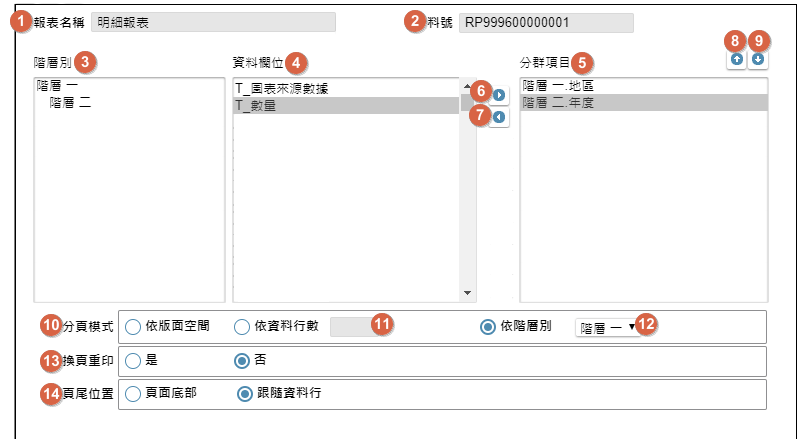
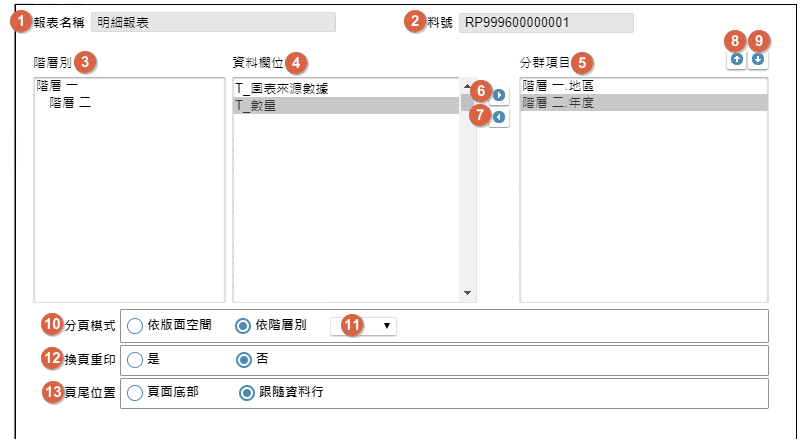
8.10.1 本版異動: ITEM_2:報表規格定義

Changed region(s): [[0.0312, 0.6795, 0.9663, 0.9455]]

diff --git a/8.10.1/UPDATE/ITEM_2/IDE/RAGroup/README.md b/8.10.1/UPDATE/ITEM_2/IDE/RAGroup/README.md
@@ -5,9 +5,13 @@
 * [版面資訊通則][link_ruleother1]
 
 ## <div id="form-action">動作說明</div>
+
+* 依報表規格定義, 結構清單駐留節點: 分頁模式, 顯示本單內容
+* 依報表規格定義, 工具列.編修鍵, 進入本單的編輯模式
 * 參照 [單據異動資料按鍵操作通則][link_rulebutton2]
     * 下列欄位, 除規格說明中有額外說明, 否則所有欄位在瀏覽狀態: 除能 ; 編輯狀態: 致能
-
+* 動作流程
+    * ![pic][image_flow_open]
 
 ## <div id="object-desc">欄位說明</div>
 
@@ -26,7 +30,7 @@
     * `(3)階層別`
         * 用途說明
         * 規格說明
-            * 顯示報表階層清單, 過濾: 駐留筆報表
+            * 顯示報表階層清單, 過濾: 駐留筆報表, 且階層類型存在【lh.階層首、lf.階層尾】
     * `(4)資料欄位`
         * 用途說明
         * 規格說明
@@ -40,56 +44,70 @@
         * 規格說明
             * 在`(3)階層別`指定駐留任一報表階層, 並同時在`(4)資料欄位`指定駐留任一欄位, 且駐留的階層+資料欄位不存在`(5)分群項目`中, 則 致能, 否則 除能
             * 執行按鍵時, 將指定的階層及資料欄位加入至`(5)分群項目`中
+        * 動作流程
+            * ![pic][image_flow_add_group]
     * `(7)清除_分群項目`
         * 用途說明
         * 規格說明
             * 在`(5)分群項目`指定駐留任一記錄, 則 致能, 否則 除能
             * 執行按鍵, 將駐留筆從`(5)分群項目`中清除
+        * 動作流程
+            * ![pic][image_flow_cancel_group]
     * `(8)上移`
         * 用途說明
         * 規格說明
             * 在`(5)分群項目`指定駐留任一記錄, 且`(5)分群項目`記錄筆數>1, 且駐留筆非第一筆時, 則 致能, 否則 除能
-            * 執行按鍵，將駐留筆往上移
+            * 執行按鍵, 將駐留筆往上移, 與上一筆記錄調換排序位置
+        * 動作流程
+            * ![pic][image_flow_move_up]
     * `(9)下移`
         * 用途說明
         * 規格說明
             * 在`(5)分群項目`指定駐留任一記錄, 且`(5)分群項目`記錄筆數>1, 且駐留筆非最後一筆時, 則 致能, 否則 除能
-            * 執行按鍵，將駐留筆往下移
+            * 執行按鍵, 將駐留筆往下移, 與下一筆記錄調換排序位置
+        * 動作流程
+            * ![pic][image_flow_move_down]
     * `(10)分頁模式`
         * 用途說明
             * 報表分頁的基礎
-                * 依版面空間：即版面已滿時才會換頁
-                * 依階層別：挑選依據階層，依上述設定階層群組依據異動而分頁
+                * 依版面空間: 即版面已滿時才會換頁
+                * 依階層別: 挑選依據階層, 依上述設定階層群組依據異動而分頁
         * 規格說明
-            * 單一選項: 依版面空間 / 依資料行數/ 依階層別
+            * 單一選項: 依版面空間/ 依階層別
     * `(11)依階層別`
         * 用途說明
         * 規格說明
-            * 下拉選項: 報表階層名稱, 過濾: 駐留筆報表
+            * 下拉選項: 報表階層清單, 顯示: 階層名稱, 過濾: 駐留筆報表, 且階層類型存在【lh.階層首、lf.階層尾】
     * `(12)換頁重印`
         * 用途說明
-            * 指報表換頁時，頁首內容是否於次頁中顯示
+            * 指報表換頁時, 頁首內容是否於次頁中顯示
         * 規格說明
-    * `(12)頁尾位置`
+            * 單一選項: 是 / 否
+    * `(13)頁尾位置`
         * 用途說明
             * 指定頁尾的資訊出現的位置
-                * 固定版面底部，即將頁尾內容固定置於報表最下方
-                * 跟隨資料列，即將頁尾資料內容，置於頁身或階尾內容的下方顯示
+                * 固定版面底部, 即將頁尾內容固定置於報表最下方
+                * 跟隨資料列, 即將頁尾資料內容, 置於頁身或階尾內容的下方顯示
         * 規格說明
+            * 單一選項: 固定版面底部 / 跟隨資料列
 
 ## <div id="save-action">儲存檢控</div>
 * 以下欄位符合條件時, 顯示訊息盒, 顯示規則參照 [存回不允空白檢控通則][link_ruleother7]
-    * 當`(5)參數名`=空值
-    * 當`(6)型態`=請選擇
-
-	
-* 以下欄位符合條件時, 顯示訊息盒, 顯示規則參照 [存回其它檢控通則][link_ruleother8]
-	* 當`(5)參數名`存在空白字元, 錯誤訊息內容: 參數名:`(5)參數名`, 不允有空白字元
+    * 當`(10)分頁模式`未選取任何選項
+    * 當`(10)分頁模式`=依階層別, 且`(11)依階層別`未選取任何選項
+    * 當`(12)換頁重印`未選取任何選項
+	* 當`(12)頁尾位置`未選取任何選項
 
 
 <!-- 圖片 -->
 [image_report_ragroup]:attachment/ReportAnnotation_RAGroup.png
 [image_report_ragroup_block1]:attachment/ReportAnnotation_RAGroup_block1.png
+
+[image_flow_open]:attachment/RAGroupFlow_open.png
+[image_flow_add_group]:attachment/RAGroupFlow_add_group.png
+[image_flow_cancel_group]:attachment/RAGroupFlow_cancel_group.png
+[image_flow_move_up]:attachment/RAGroupFlow_move_up.png
+[image_flow_move_down]:attachment/RAGroupFlow_move_down.png
 
 <!-- 超連結 -->
 [link_fieldbreak1]:#fieldbreak1 "欄位說明/基本"

diff --git a/8.10.1/UPDATE/ITEM_2/IDE/ReportObjectAnnotation/README.md b/8.10.1/UPDATE/ITEM_2/IDE/ReportObjectAnnotation/README.md
@@ -1,0 +1,69 @@
+## <div id="layout">版面相關</div>
+* 版面
+    ![pic][image_basic]
+
+* [版面資訊通則][link_ruleother1]
+
+## <div id="form-action">動作說明</div>
+
+* 依報表規格定義, 結構清單駐留節點: 報表元件名稱, 顯示本單內容
+* 依報表規格定義, 工具列.編修鍵, 進入本單的編輯模式
+* 參照 [單據異動資料按鍵操作通則][link_rulebutton2]
+    * 下列欄位, 除規格說明中有額外說明, 否則所有欄位在瀏覽狀態: 除能 ; 編輯狀態: 致能
+
+## <div id="object-desc">欄位說明</div>
+
+* <p id="fieldbreak1" style="color:blue;font-weight:bold">基本</p>
+
+    * ![pic][image_basic_block1]
+    * `(1)元件名`
+        * 用途說明
+        * 規格說明
+			* 本欄位唯讀
+            * 參照 [使用多語詞庫通則][link_ruledialog2], 回傳:按鍵多語內容並顯示
+    * `(2)料號`
+        * 用途說明
+        * 規格說明
+            * 顯示前單傳入的報表元件料號
+			* 新增存回時, 由系統依編碼原則: 固定值(RI) + Site no + 流水8碼給值. (ex. RI999500000001)
+            * 本欄位除能, 不提供編輯
+    * `(3)元件類型`
+        * 用途說明
+        * 規格說明
+            * 依平台語系顯示報表元件類型
+    * `(4)資料區`
+        * 用途說明
+        * 規格說明
+            * 依平台語系顯示報表階層名稱
+    * `(5)規格定義區塊`
+        * 用途說明
+        * 規格說明
+            * 依報表元件類型，將對應的規格頁面顯示在本區塊內
+                * 報表元件類型存在【rEChart.嵌入圖表】, 顯示: [圖表介面](rEchart)
+                * 報表元件類型存在【rTP.文字標題、rTF.文字方塊、rTA.多行文字、rCB.核取方塊、rBC.條碼、rImg.圖片、rLogo.企業標誌】, 顯示: [其餘類型介面](OtherWidget)
+            * 當顯示內容高於本區塊最大高度, 則出現垂直捲軸
+
+## <div id="save-action">儲存檢控</div>
+
+* 以下欄位符合條件時, 顯示訊息盒, 顯示規則參照 [存回不允空白檢控通則][link_ruleother7]
+    * 當`(5)參數名`=空值
+    * 當`(6)型態`=請選擇
+	
+* 以下欄位符合條件時, 顯示訊息盒, 顯示規則參照 [存回其它檢控通則][link_ruleother8]
+	* 當`(5)參數名`存在空白字元, 錯誤訊息內容: 參數名:`(5)參數名`, 不允有空白字元
+
+<!-- 圖片 -->
+[image_basic]:attachment/ReportObjectAnnotation_Basic.png
+[image_basic_block1]:attachment/ReportObjectAnnotation_Basic_block1.png
+
+
+<!-- 超連結 -->
+[link_fieldbreak1]:#fieldbreak1 "欄位說明/基本"
+[link_ruleother1]:/8.10.0/IDE/Specification/RulesOther/README#ruleother1 "共用通則_其它/版面資訊通則"
+[link_ruleother7]:/8.10.0/IDE/Specification/RulesOther/README#ruleother7 "共用通則_其它/存回不允空白檢控通則"
+[link_ruleother8]:/8.10.0/IDE/Specification/RulesOther/README#ruleother8 "共用通則_其它/存回其它檢控通則"
+
+[link_rulebutton2]:/8.10.1/IDE/Specification/RulesButton/README#rulebutton2 "共用通則_按鍵/單據異動資料按鍵操作通則"
+[link_rulebutton3]:/8.10.1/IDE/Specification/RulesButton/README#rulebutton3 "共用通則_按鍵/操作表格記錄通則"
+
+[link_ruledialog2]:/8.10.1/IDE/Specification/RulesDialog/README#ruledialog2 "共用通則_開啟單據/使用多語詞庫通則"

diff --git a/8.10.1/UPDATE/ITEM_2/IDE/SpecificationsReport/README.md b/8.10.1/UPDATE/ITEM_2/IDE/SpecificationsReport/README.md
@@ -6,6 +6,8 @@
 
 ## <div id="form-action">動作說明</div>
 * 開啟後視窗寬高預設為 1100 * 700
+* 動作流程
+    * ![pic][image_flow_open]
 
 
 ## <div id="object-desc">欄位說明</div>
@@ -82,6 +84,7 @@
                 * 若駐留節點項目為【報表名稱_報表成品料號、基本設定、資料來源、分頁模式】, 開啟後傳入報表名稱、報表料號
                 * 若駐留節點項目為【報表元件名稱_元件料號】, 開啟後傳入報表元件名稱、報表元件料號
             * 依駐留節點類別+元件類別, 單擊開啟對應加註頁面, 顯示於`(9)加註頁面區塊`
+            * 節點: 報表元件名稱, 取得駐留筆報表, 且報表元件類型存在【rTP.文字標題、rTF.文字方塊、rTA.多行文字、rCB.核取方塊、rFrame.框線、rBC.條碼、rEChart.嵌入圖表、rImg.圖片、rLogo.企業標誌】的報表元件清單顯示
         * 動作流程
             * ![pic][image_flow_annotation]
     * `(9)加註頁面區塊`
@@ -96,6 +99,7 @@
 [image_report_annotation_start]:attachment/ReportAnnotation_Start.png
 [image_report_annotation_finish]:attachment/ReportAnnotation_Finish.png
 
+[image_flow_open]:attachment/SpecificationsReportFlow_open.png
 [image_flow_open_spec]:attachment/SpecificationsReportFlow_open_spec.png
 [image_flow_error_detection]:attachment/SpecificationsReportFlow_error_detection.png
 [image_flow_reflash]:attachment/SpecificationsReportFlow_reflash.png

diff --git a/8.10.1/UPDATE/ITEM_2/IDE/ReportAnnotation/README.md b/8.10.1/UPDATE/ITEM_2/IDE/ReportAnnotation/README.md
@@ -5,11 +5,13 @@
 * [版面資訊通則][link_ruleother1]
 
 ## <div id="form-action">動作說明</div>
-* 依報表規格定義, 結構清單駐留元件及指定加註條件, 顯示本單內容
+
+* 依報表規格定義, 結構清單駐留節點: 基本設定, 顯示本單內容
 * 依報表規格定義, 工具列.編修鍵, 進入本單的編輯模式
 * 參照 [單據異動資料按鍵操作通則][link_rulebutton2]
     * 下列欄位, 除規格說明中有額外說明, 否則所有欄位在瀏覽狀態: 除能 ; 編輯狀態: 致能
-* 作業流程
+* 動作流程
+    * ![pic][image_flow_open]
 
 ## <div id="object-desc">欄位說明</div>
 
@@ -69,6 +71,7 @@
 [image_report_annotation]:attachment/ReportAnnotation_Basic.png
 [image_report_annotation_block1]:attachment/ReportAnnotation_Basic_block1.png
 
+[image_flow_open]:attachment/ReportAnnotationFlow_open.png
 [image_flow_report_name]:attachment/ReportAnnotationFlow_report_name.png
 
 <!-- 超連結 -->

diff --git a/8.10.1/UPDATE/ITEM_2/IDE/RADataSource/README.md b/8.10.1/UPDATE/ITEM_2/IDE/RADataSource/README.md
@@ -5,9 +5,13 @@
 * [版面資訊通則][link_ruleother1]
 
 ## <div id="form-action">動作說明</div>
+
 * 依報表規格定義, 結構清單駐留節點:資料來源, 顯示本單內容
+* 依報表規格定義, 工具列.編修鍵, 進入本單的編輯模式
 * 參照 [單據異動資料按鍵操作通則][link_rulebutton2]
     * 下列欄位, 除規格說明中有額外說明, 否則所有欄位在瀏覽狀態: 除能 ; 編輯狀態: 致能
+* 動作流程
+    * ![pic][image_flow_open]
 
 ## <div id="object-desc">欄位說明</div>
 
@@ -105,6 +109,7 @@
 [image_radatasource]:attachment/ReportAnnotation_DataSource.png
 [image_radatasource_block1]:attachment/ReportAnnotation_DataSource_block1.png
 
+[image_flow_open]:attachment/RADataSoruceFlow_open.png
 [image_flow_raSourKind]:attachment/RADataSoruceFlow_raSourKind.png
 [image_flow_raSourCode]:attachment/RADataSoruceFlow_raSourCode.png
 [image_flow_raFilterID]:attachment/RADataSoruceFlow_raFilterID.png

diff --git a/8.10.1/UPDATE/ITEM_2/IDE/ReportObjectAnnotation/rEchart.md b/8.10.1/UPDATE/ITEM_2/IDE/ReportObjectAnnotation/rEchart.md
@@ -1,0 +1,25 @@
+圖表元件規格定義
+===
+## 版面相關
+* 版面</br>
+    ![pic][image_rEchart]
+
+## 欄位設定
+* <p id="fieldbreak1" style="color:blue;">圖表元件區塊</p>
+
+    * ![pic][image_rEchart_block1]
+    * `(1)圖表函數選取`
+        * 用途說明
+        * 規格說明
+            * 參照 [操作邏輯函數表格通則][link_ruledialog19], 回傳:邏輯函數多語內容並顯示
+            * 表格列數最高顯示**10**列, 超過出現垂直捲軸
+
+
+<!-- 圖片 -->
+[image_rEchart]:attachment/ReportObjectAnnotation_rEchart.png
+[image_rEchart_block1]:attachment/ReportObjectAnnotation_rEchart_block1.png
+
+<!-- 超連結 -->
+[link_fieldbreak1]:#fieldbreak1 "欄位說明/基本"
+
+[link_ruledialog19]:/8.10.1/IDE/Specification/RulesDialog/README#ruledialog19 "共用通則_開啟單據/操作邏輯函數表格通則"

diff --git a/8.10.1/IDE/Specification/RulesDialog/README.md b/8.10.1/IDE/Specification/RulesDialog/README.md
@@ -426,6 +426,7 @@
     * 用途說明
     * 規格說明
         * 顯示, 依`(1)函數名稱`至[邏輯函數][link_LogicalFunction], 取得對應的`參數名稱`; 唯讀
+        * Hint: [邏輯函數][link_LogicalFunction]的`參數名稱`內容
 * `(3)參數型態`
     * 用途說明
     * 規格說明
@@ -435,6 +436,7 @@
     * 用途說明
     * 規格說明
         * 當有本欄位, 顯示, 依`(1)函數名稱`至[邏輯函數][link_LogicalFunction], 取得對應的`對應父階`; 唯讀
+        * Hint: [邏輯函數][link_LogicalFunction]的`對應父階`內容
 * `(5)空白`
     * 用途說明
     * 規格說明

diff --git a/8.10.1/UPDATE/ITEM_2/IDE/RADataSource/RAConnect.md b/8.10.1/UPDATE/ITEM_2/IDE/RADataSource/RAConnect.md
@@ -6,6 +6,8 @@
 
 ## <div id="form-action">動作說明</div>
 * 駐留報表_資料來源, 執行按鍵: 對應元件開啟並顯示本單內容
+* 動作流程
+    * ![pic][image_flow_open]
 
 ## <div id="object-desc">欄位說明</div>
 
@@ -84,6 +86,7 @@
 [image_raconnect]:attachment/ReportAnnotation_RAConnect.png
 [image_raconnect_block1]:attachment/ReportAnnotation_RAConnect_block1.png
 
+[image_flow_open]:attachment/RAConnectFlow_open.png
 [image_flow_save]:attachment/RAConnectFlow_Save.png
 [image_flow_cancel]:attachment/RAConnectFlow_Cancel.png
 [image_flow_auto_mapping]:attachment/RAConnectFlow_auto_mapping.png

diff --git a/8.10.1/UPDATE/ITEM_2/IDE/_sidebar.md b/8.10.1/UPDATE/ITEM_2/IDE/_sidebar.md
@@ -11,5 +11,4 @@
         * [基本設定](ReportAnnotation/README)
         * [資料來源](RADataSource/README)
         * [分頁模式](RAGroup/README)
-    * 報表元件
-        * [基本設定](ReportObjectAnnotation/README)
+    * [報表元件](ReportObjectAnnotation/README)

diff --git a/8.10.1/UPDATE/ITEM_2/IDE/ReportObjectAnnotation/_sidebar.md b/8.10.1/UPDATE/ITEM_2/IDE/ReportObjectAnnotation/_sidebar.md
@@ -1,0 +1,8 @@
+# 報表元件加註
+* [上一頁](../README.md)
+* [版面相關](README#layout)
+* [動作說明](README#form-action)
+* [欄位說明](README#object-desc)
+    * [圖表介面](rEchart)
+    * [其餘類型介面](OtherWidget)
+* [儲存檢控](README#save-action)
